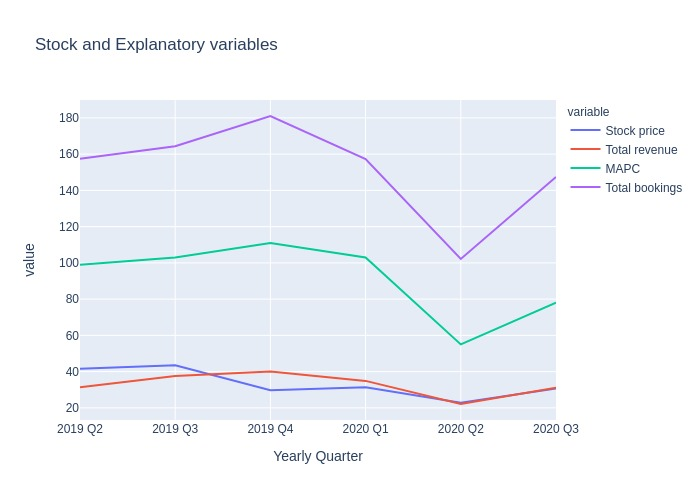
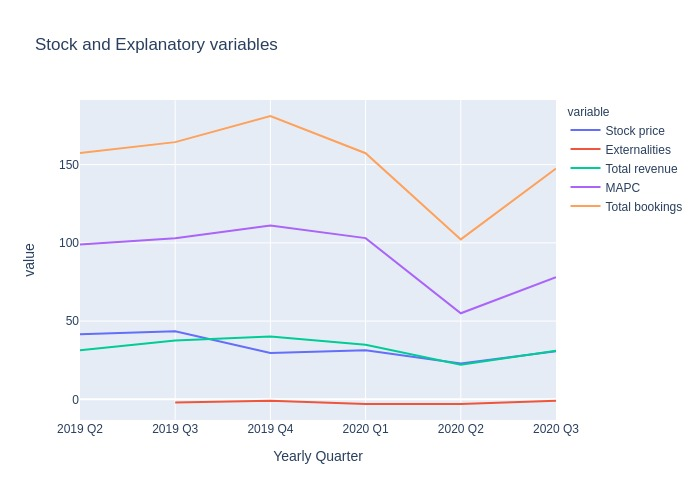
Add consolidated graphs

diff --git a/graphs.py b/graphs.py
@@ -66,5 +66,5 @@ fig = px.line(df, x='Yearly Quarter', y=['Stock price', 'Bookings(Ride)', 'Booki
 savefig(fig, 'consolidated/' + title)
 
 title = 'Stock and Explanatory variables'
-fig = px.line(df, x='Yearly Quarter', y=['Stock price', 'Total revenue', 'MAPC', 'Total bookings',], title=title)
+fig = px.line(df, x='Yearly Quarter', y=['Stock price', 'Externalities', 'Total revenue', 'MAPC', 'Total bookings',], title=title)
 savefig(fig, 'consolidated/' + title)
